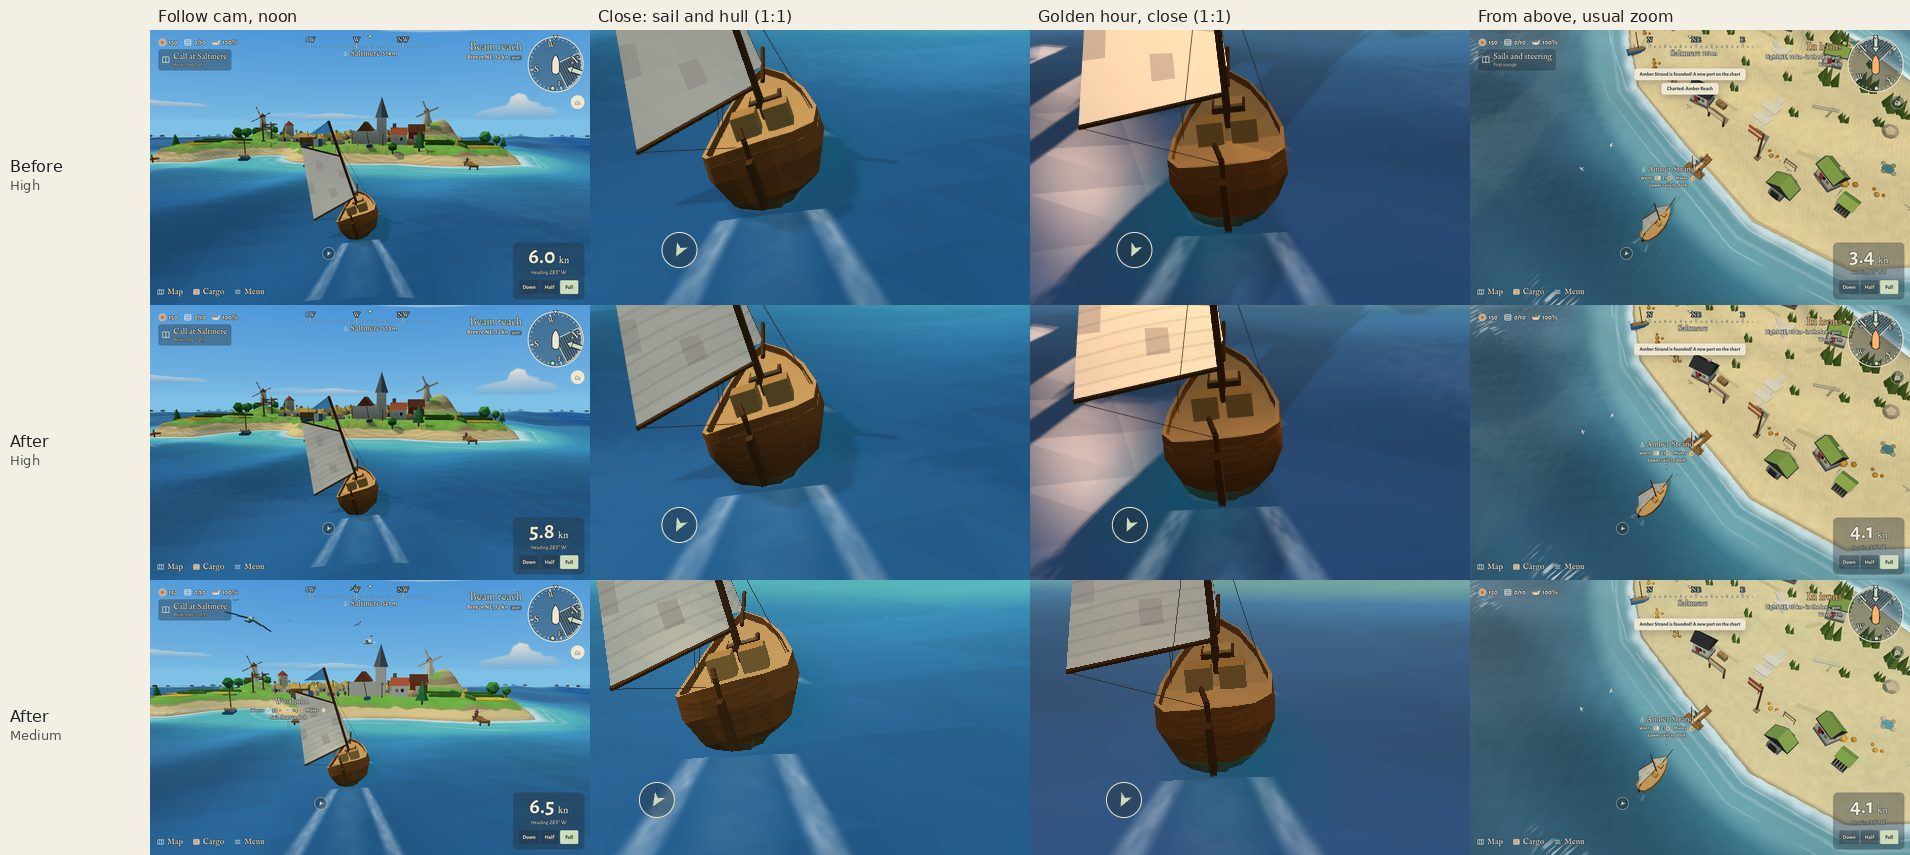
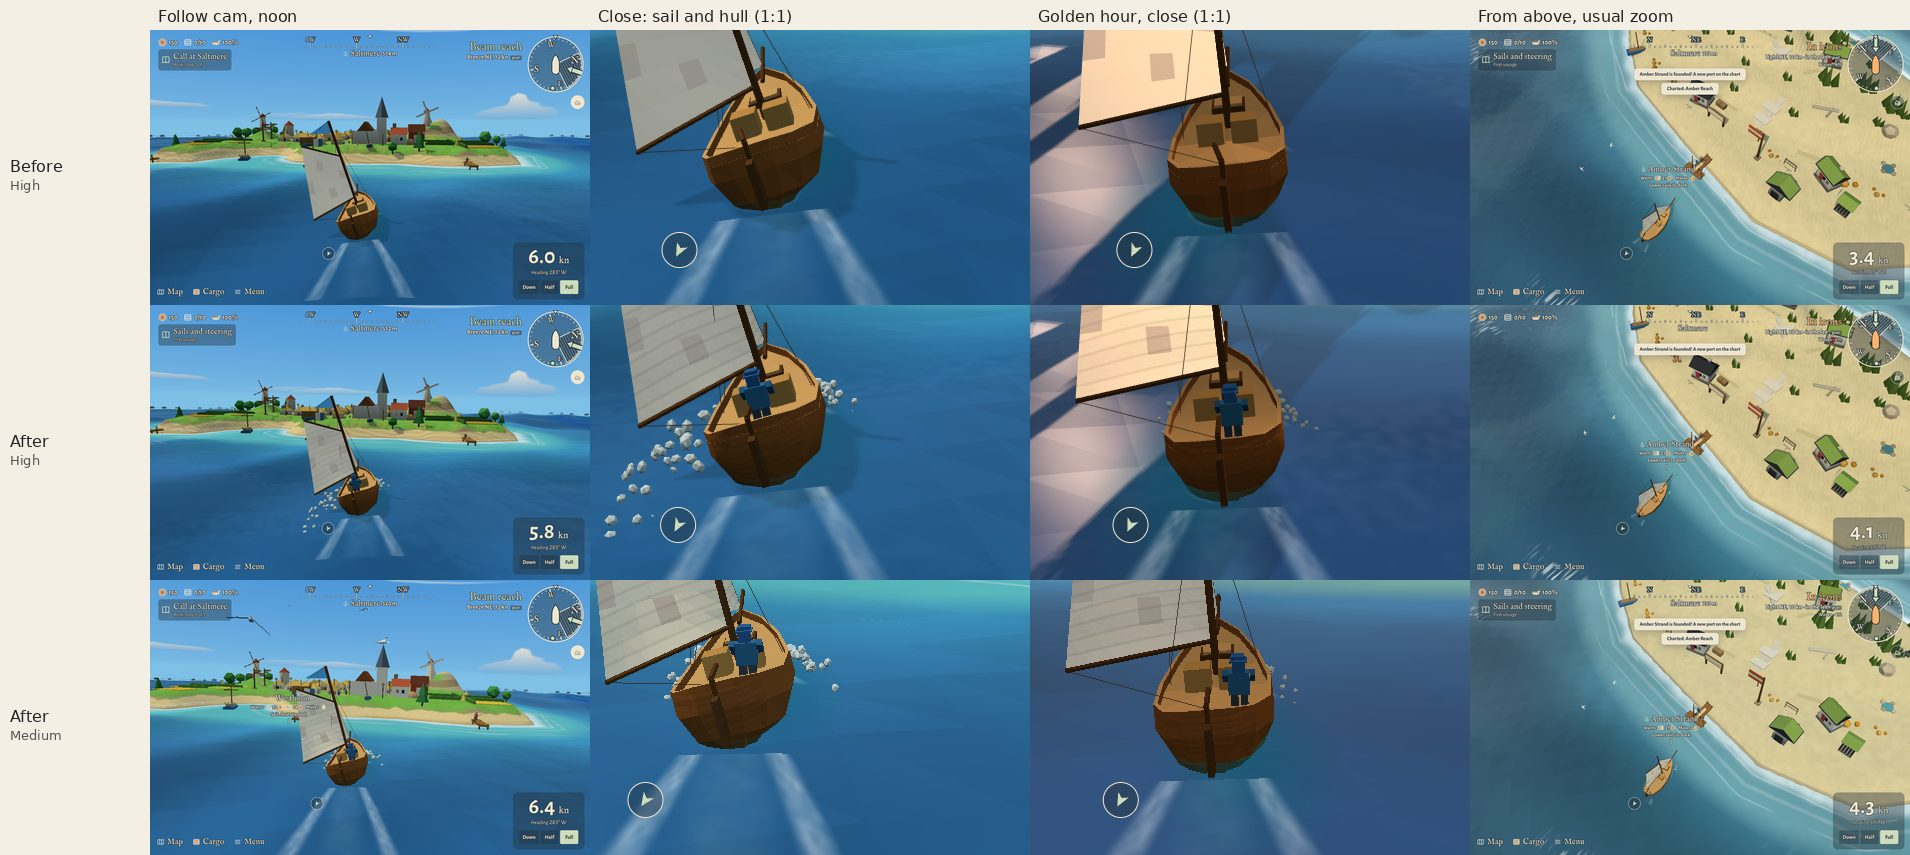
Final #572 sheets on top of the boat up close
Claude-Session: https://claude.ai/code/session_013jvdBuGKoieJacbSkeG6Xb

diff --git a/docs/reviews/v1.13/surface-detail/README.md b/docs/reviews/v1.13/surface-detail/README.md
@@ -5,7 +5,8 @@ Decision [0327](../../../decisions/0327-soft-surface-patterns-near-the-camera-an
 ## Final (for Guillaume's end-of-release review)
 
 - [final-town.jpg](final-town.jpg) and [final-sail.jpg](final-sail.jpg): before (High) against
-  after on High and on Medium (patterns, flat hulls), same poses as the variants sheet.
+  after on High and on Medium (patterns, flat hulls), same poses as the variants sheet. The
+  crew and spray in the after rows are #553/#554 (merged meanwhile), not this part.
 - Art director's pick (2026-11-16): A's soft edges, walls, roofs and land wood (quays, signs,
   sheds) at ±6 %, hull planks, decks and sail seams at ±10 %; fade ranges as below.
 
